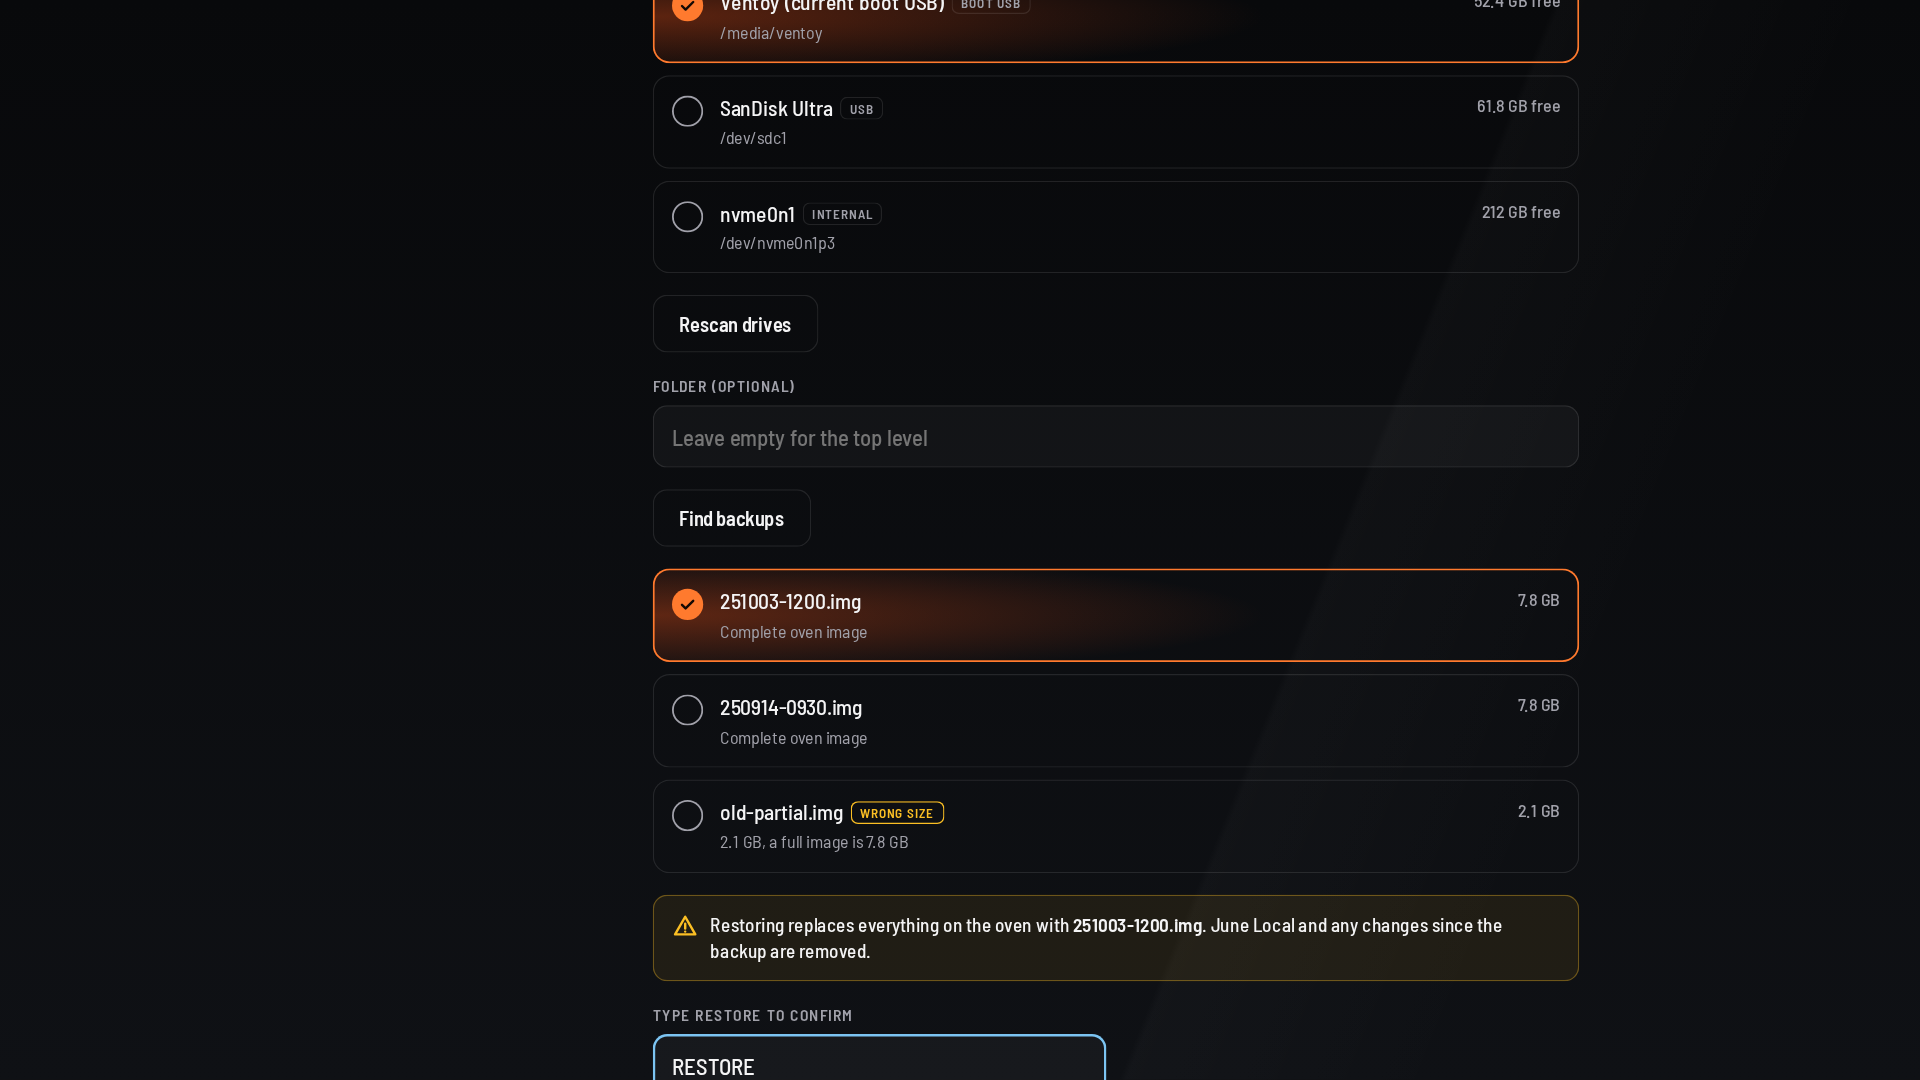
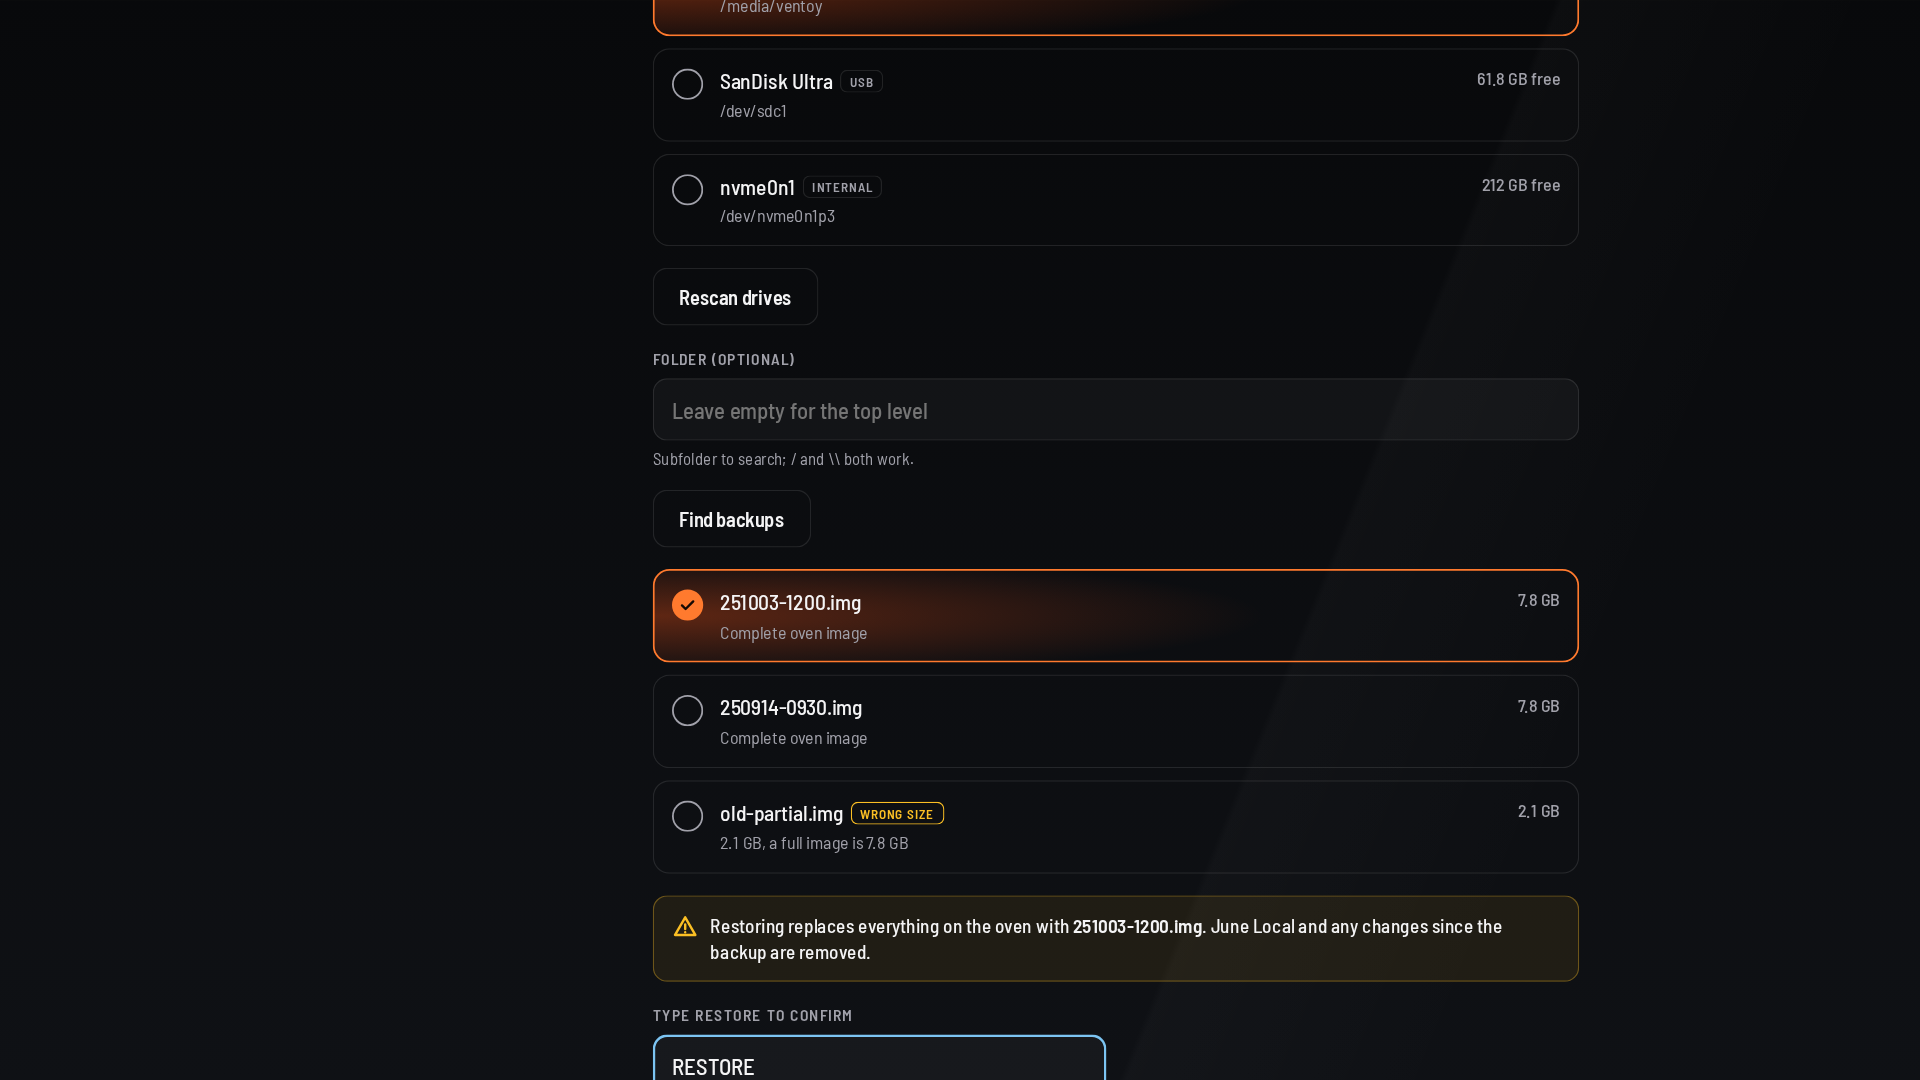
backup: default the save folder to june-backups and accept / and \
The backup page now starts with june-backups as a real value instead of a
placeholder, so the common case is one keypress away; clearing it still
saves at the top level.

Folder and file name inputs now accept Windows and Unix separators
everywhere they are read:
- server.py normalises \\ to /, drops empty and parent segments, allows up
  to four folder levels, and takes the last component of a pasted file
  path, so a value can never escape the chosen drive;
- backup.sh (generated from prepare_assets.sh) does the same for the text
  installer and CLI callers, and appends .img when the name lacks it.

Mockups rebuilt against build 20261007-0044-5fd2bf5c.

diff --git a/installer/liveiso/gui/web/app.js b/installer/liveiso/gui/web/app.js
@@ -265,7 +265,7 @@ function viewOptions() {
       ${ui.destErr ? `<div class="err">${MARK.warn}<span>${esc(ui.destErr)}</span></div>` : ""}
       <div class="row"><button class="btn ghost" type="button" data-do="rescan">Rescan drives</button></div>
       <div class="fields">
-        <div class="field${restore ? " wide" : ""}"><label for="f-folder">Folder (optional)</label><input id="f-folder" name="folder" autocomplete="off" spellcheck="false" placeholder="${restore ? "Leave empty for the top level" : "june-backups"}" value="${esc(f.folder || "")}"></div>
+        <div class="field${restore ? " wide" : ""}"><label for="f-folder">${restore ? "Folder (optional)" : "Folder"}</label><input id="f-folder" name="folder" autocomplete="off" spellcheck="false" placeholder="${restore ? "Leave empty for the top level" : "june-backups"}" value="${esc(f.folder || "")}"><div class="hint">${restore ? "Subfolder to search; / and \\\\ both work." : "Saved to this folder on the drive; / and \\\\ both work. Clear it for the top level."}</div></div>
         ${restore ? "" : `<div class="field"><label for="f-file">File name</label><input id="f-file" name="filename" autocomplete="off" spellcheck="false" value="${esc(f.filename || defaultFilename())}"></div>`}
       </div>`;
     if (restore) {
@@ -678,7 +678,11 @@ function bindView(root) {
 }
 
 function startFlow(action) {
-  setView("options", { action, form: {}, dests: null, images: null, destErr: "" });
+  // Backups get a real default folder, not just a placeholder, so the common
+  // case is one keypress away.  Clearing the field still saves at top level.
+  const form = {};
+  if (action === "backup") form.folder = "june-backups";
+  setView("options", { action, form, dests: null, images: null, destErr: "" });
   if (action === "backup" || action === "restore") loadDests();
 }
 

diff --git a/installer/liveiso/gui/server.py b/installer/liveiso/gui/server.py
@@ -521,11 +521,7 @@ class App:
             folder = self._clean_folder(str(body.get("folder", "")))
             params.update(dest=dest, folder=folder)
             if action == "backup":
-                filename = str(body.get("filename", "")).strip() or time.strftime("%y%m%d-%H%M.img")
-                if not filename.endswith(".img"):
-                    filename += ".img"
-                if not SAFE_PART_RE.match(filename):
-                    raise ApiError(400, "Use only letters, digits, dots, dashes and spaces in the file name.")
+                filename = self._clean_filename(str(body.get("filename", "")))
                 params["filename"] = filename
                 argv = self.worker("backup.sh") + ["backup", dest, folder, filename]
             else:
@@ -550,13 +546,42 @@ class App:
 
     @staticmethod
     def _clean_folder(folder: str) -> str:
-        folder = folder.strip().strip("/")
-        if not folder:
-            return ""
-        parts = folder.split("/")
-        if any(p in ("", ".", "..") or not SAFE_PART_RE.match(p) for p in parts):
-            raise ApiError(400, "Use a simple folder name (letters, digits, dots, dashes, spaces).")
-        return folder
+        """Normalise a folder typed on any platform.
+
+        Both separators mean the same thing: "backups\\2026" and
+        "backups/2026" are the nested folder backups/2026.  Empty and parent
+        segments are dropped, so the result always stays inside the drive.
+        """
+        raw = (folder or "").replace("\\", "/")
+        parts = []
+        for part in raw.split("/"):
+            part = part.strip().rstrip(".").strip()
+            if not part or part in (".", ".."):
+                continue
+            if not SAFE_PART_RE.match(part):
+                raise ApiError(400, "Use simple folder names (letters, digits, dots, dashes, spaces).")
+            parts.append(part)
+        if len(parts) > 4:
+            raise ApiError(400, "Use at most four folder levels.")
+        return "/".join(parts)
+
+    @staticmethod
+    def _clean_filename(filename: str) -> str:
+        """Take the last path component and make sure it ends in .img.
+
+        People paste paths like "june-backups\\261007-1200.img" or
+        "backups/261007-1200.img" into the name field; both separators are
+        accepted and only the file name is kept.
+        """
+        name = (filename or "").replace("\\", "/").rsplit("/", 1)[-1]
+        name = name.strip().rstrip(".").strip()
+        if not name:
+            name = time.strftime("%y%m%d-%H%M.img")
+        if not name.lower().endswith(".img"):
+            name += ".img"
+        if not SAFE_PART_RE.match(name):
+            raise ApiError(400, "Use only letters, digits, dots, dashes and spaces in the file name.")
+        return name
 
     def destinations(self) -> dict:
         if self.mock:

diff --git a/website-assets/installer-mockups/capture.py b/website-assets/installer-mockups/capture.py
@@ -32,7 +32,7 @@ PNG = HERE / "png"
 PORT = int(os.environ.get("MOCK_PORT", "8765"))
 BASE = f"http://127.0.0.1:{PORT}"
 VERSION = os.environ.get("JUNE_VERSION", "0.5")
-BUILD_ID = os.environ.get("JUNE_BUILD_ID", "20261006-0256-83d0fced")
+BUILD_ID = os.environ.get("JUNE_BUILD_ID", "20261007-0044-5fd2bf5c")
 
 STAGES = [
     ("01-home.png", "Installer home",

diff --git a/website-assets/installer-mockups/captions.md b/website-assets/installer-mockups/captions.md
@@ -1,6 +1,6 @@
 # June Local installer mockups
 
-Rendered from the real installer UI (version 0.5, build 20261006-0256-83d0fced).
+Rendered from the real installer UI (version 0.5, build 20261007-0044-5fd2bf5c).
 
 | File | Stage | What it shows |
 | --- | --- | --- |
